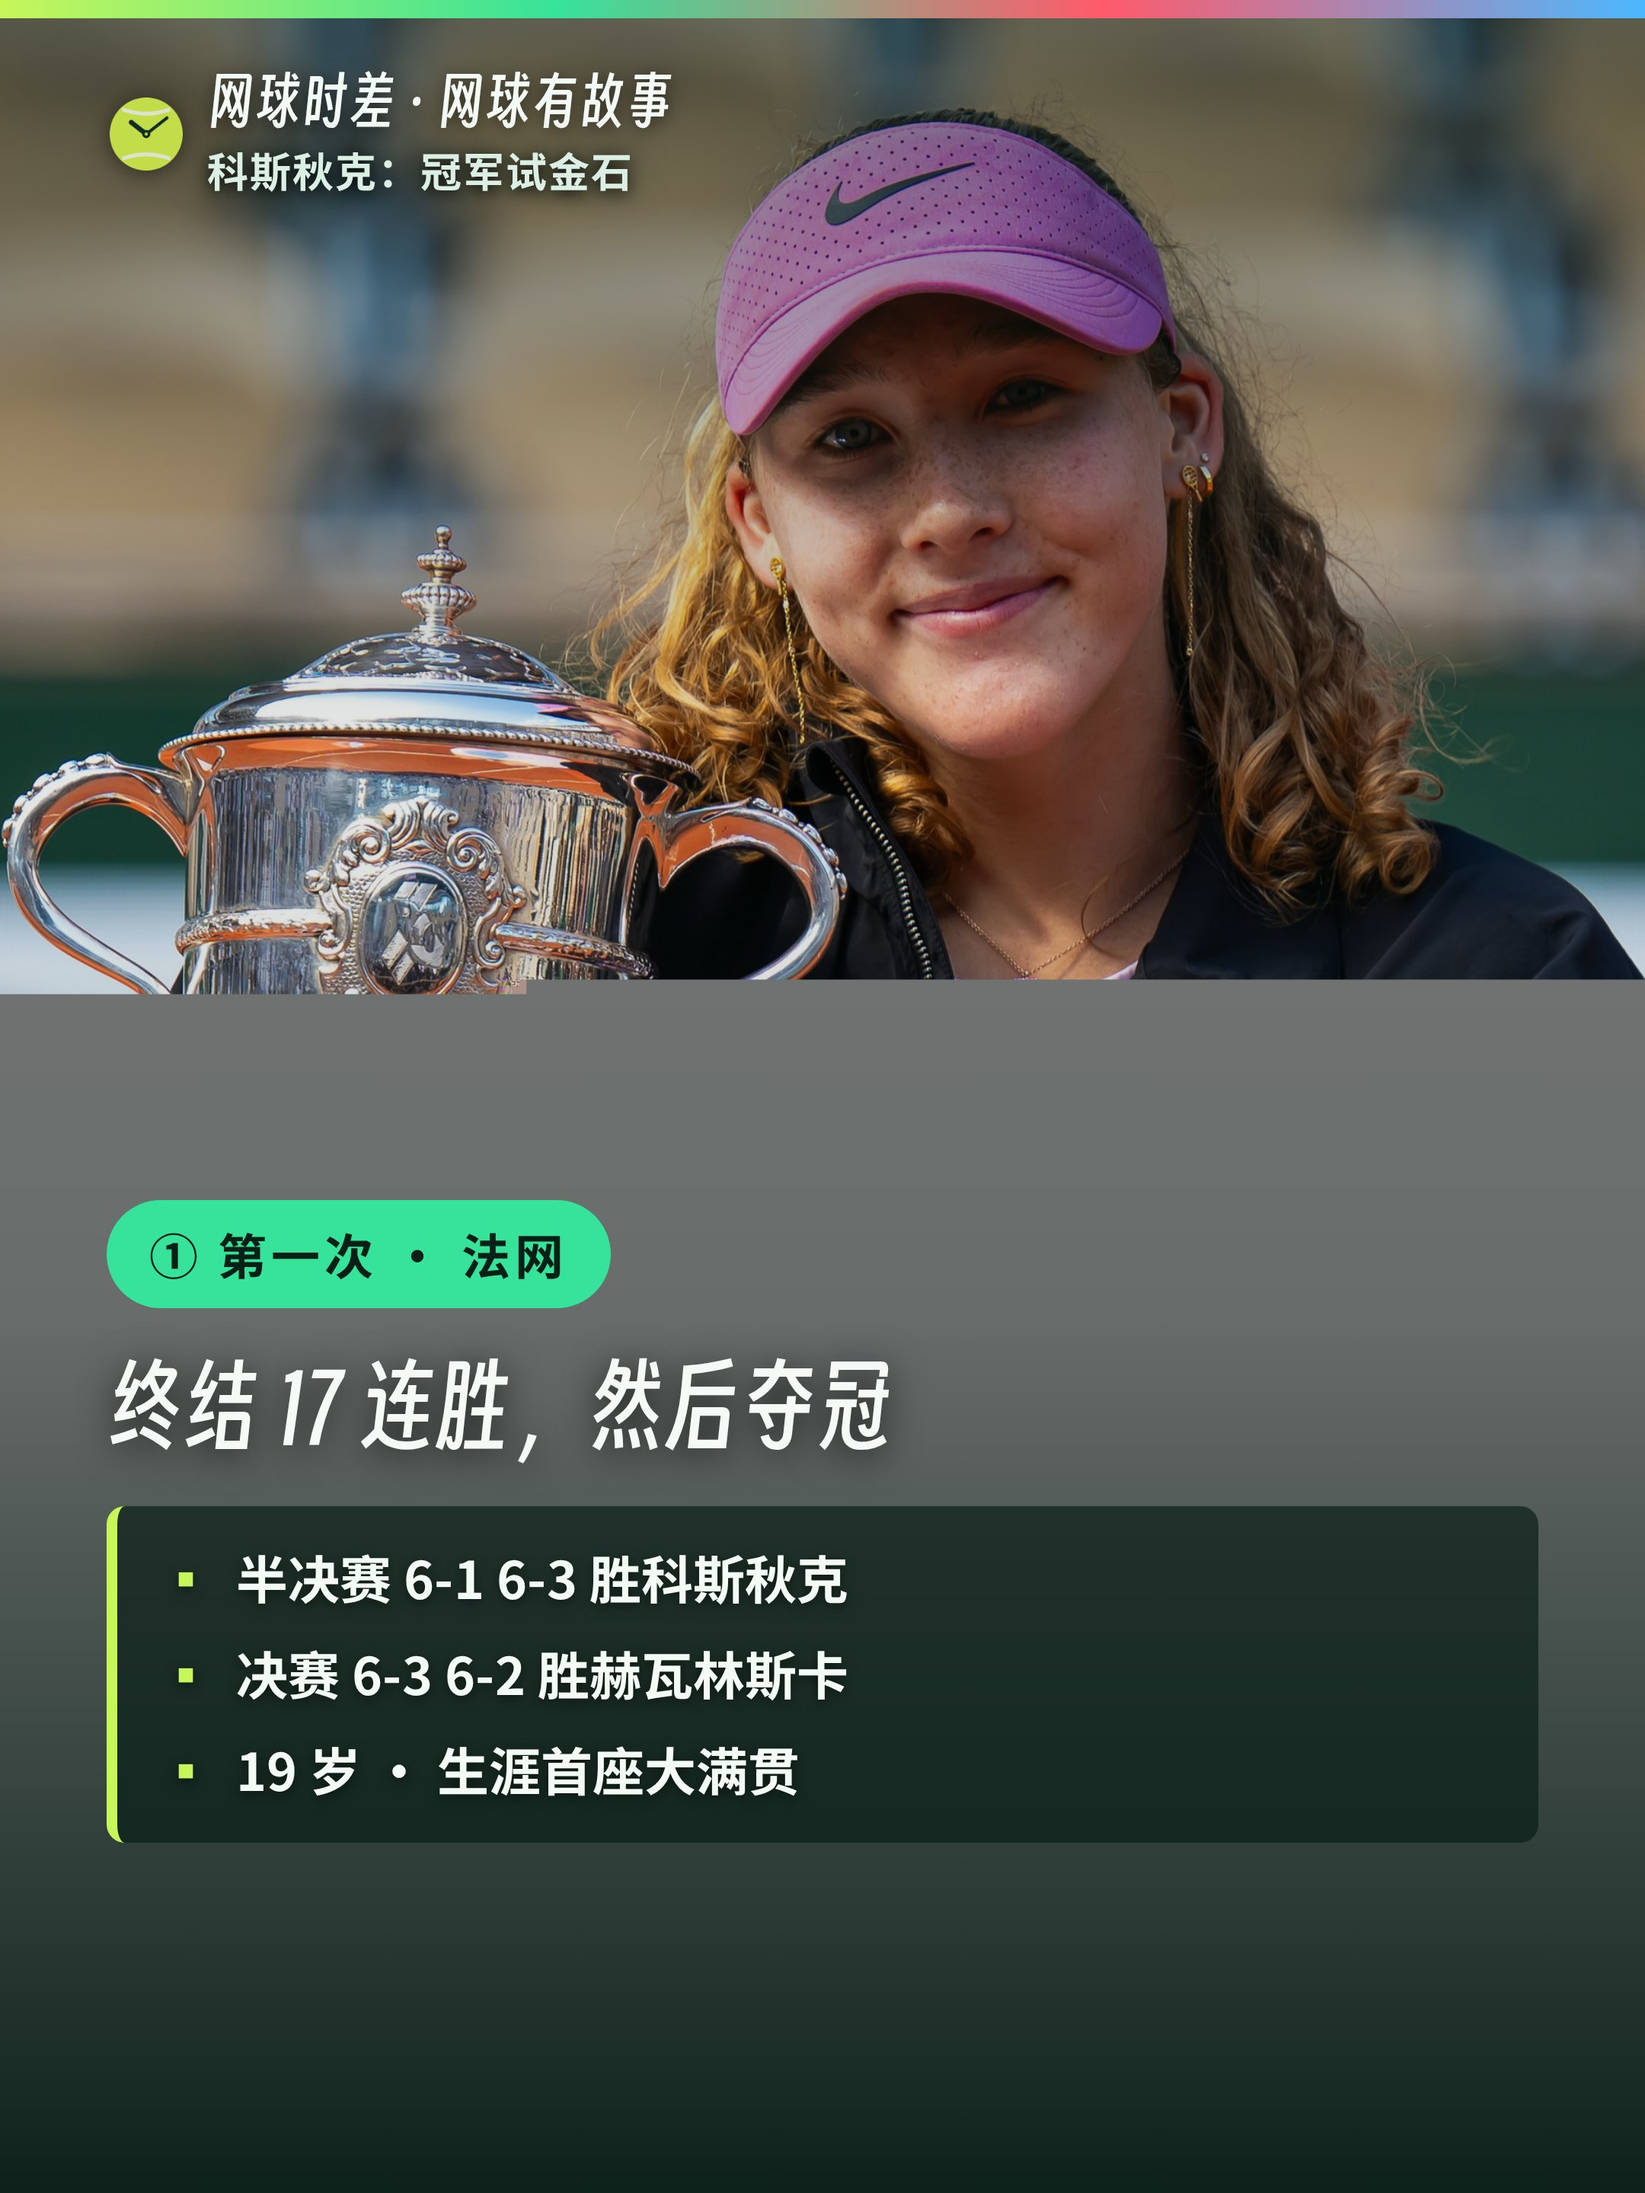
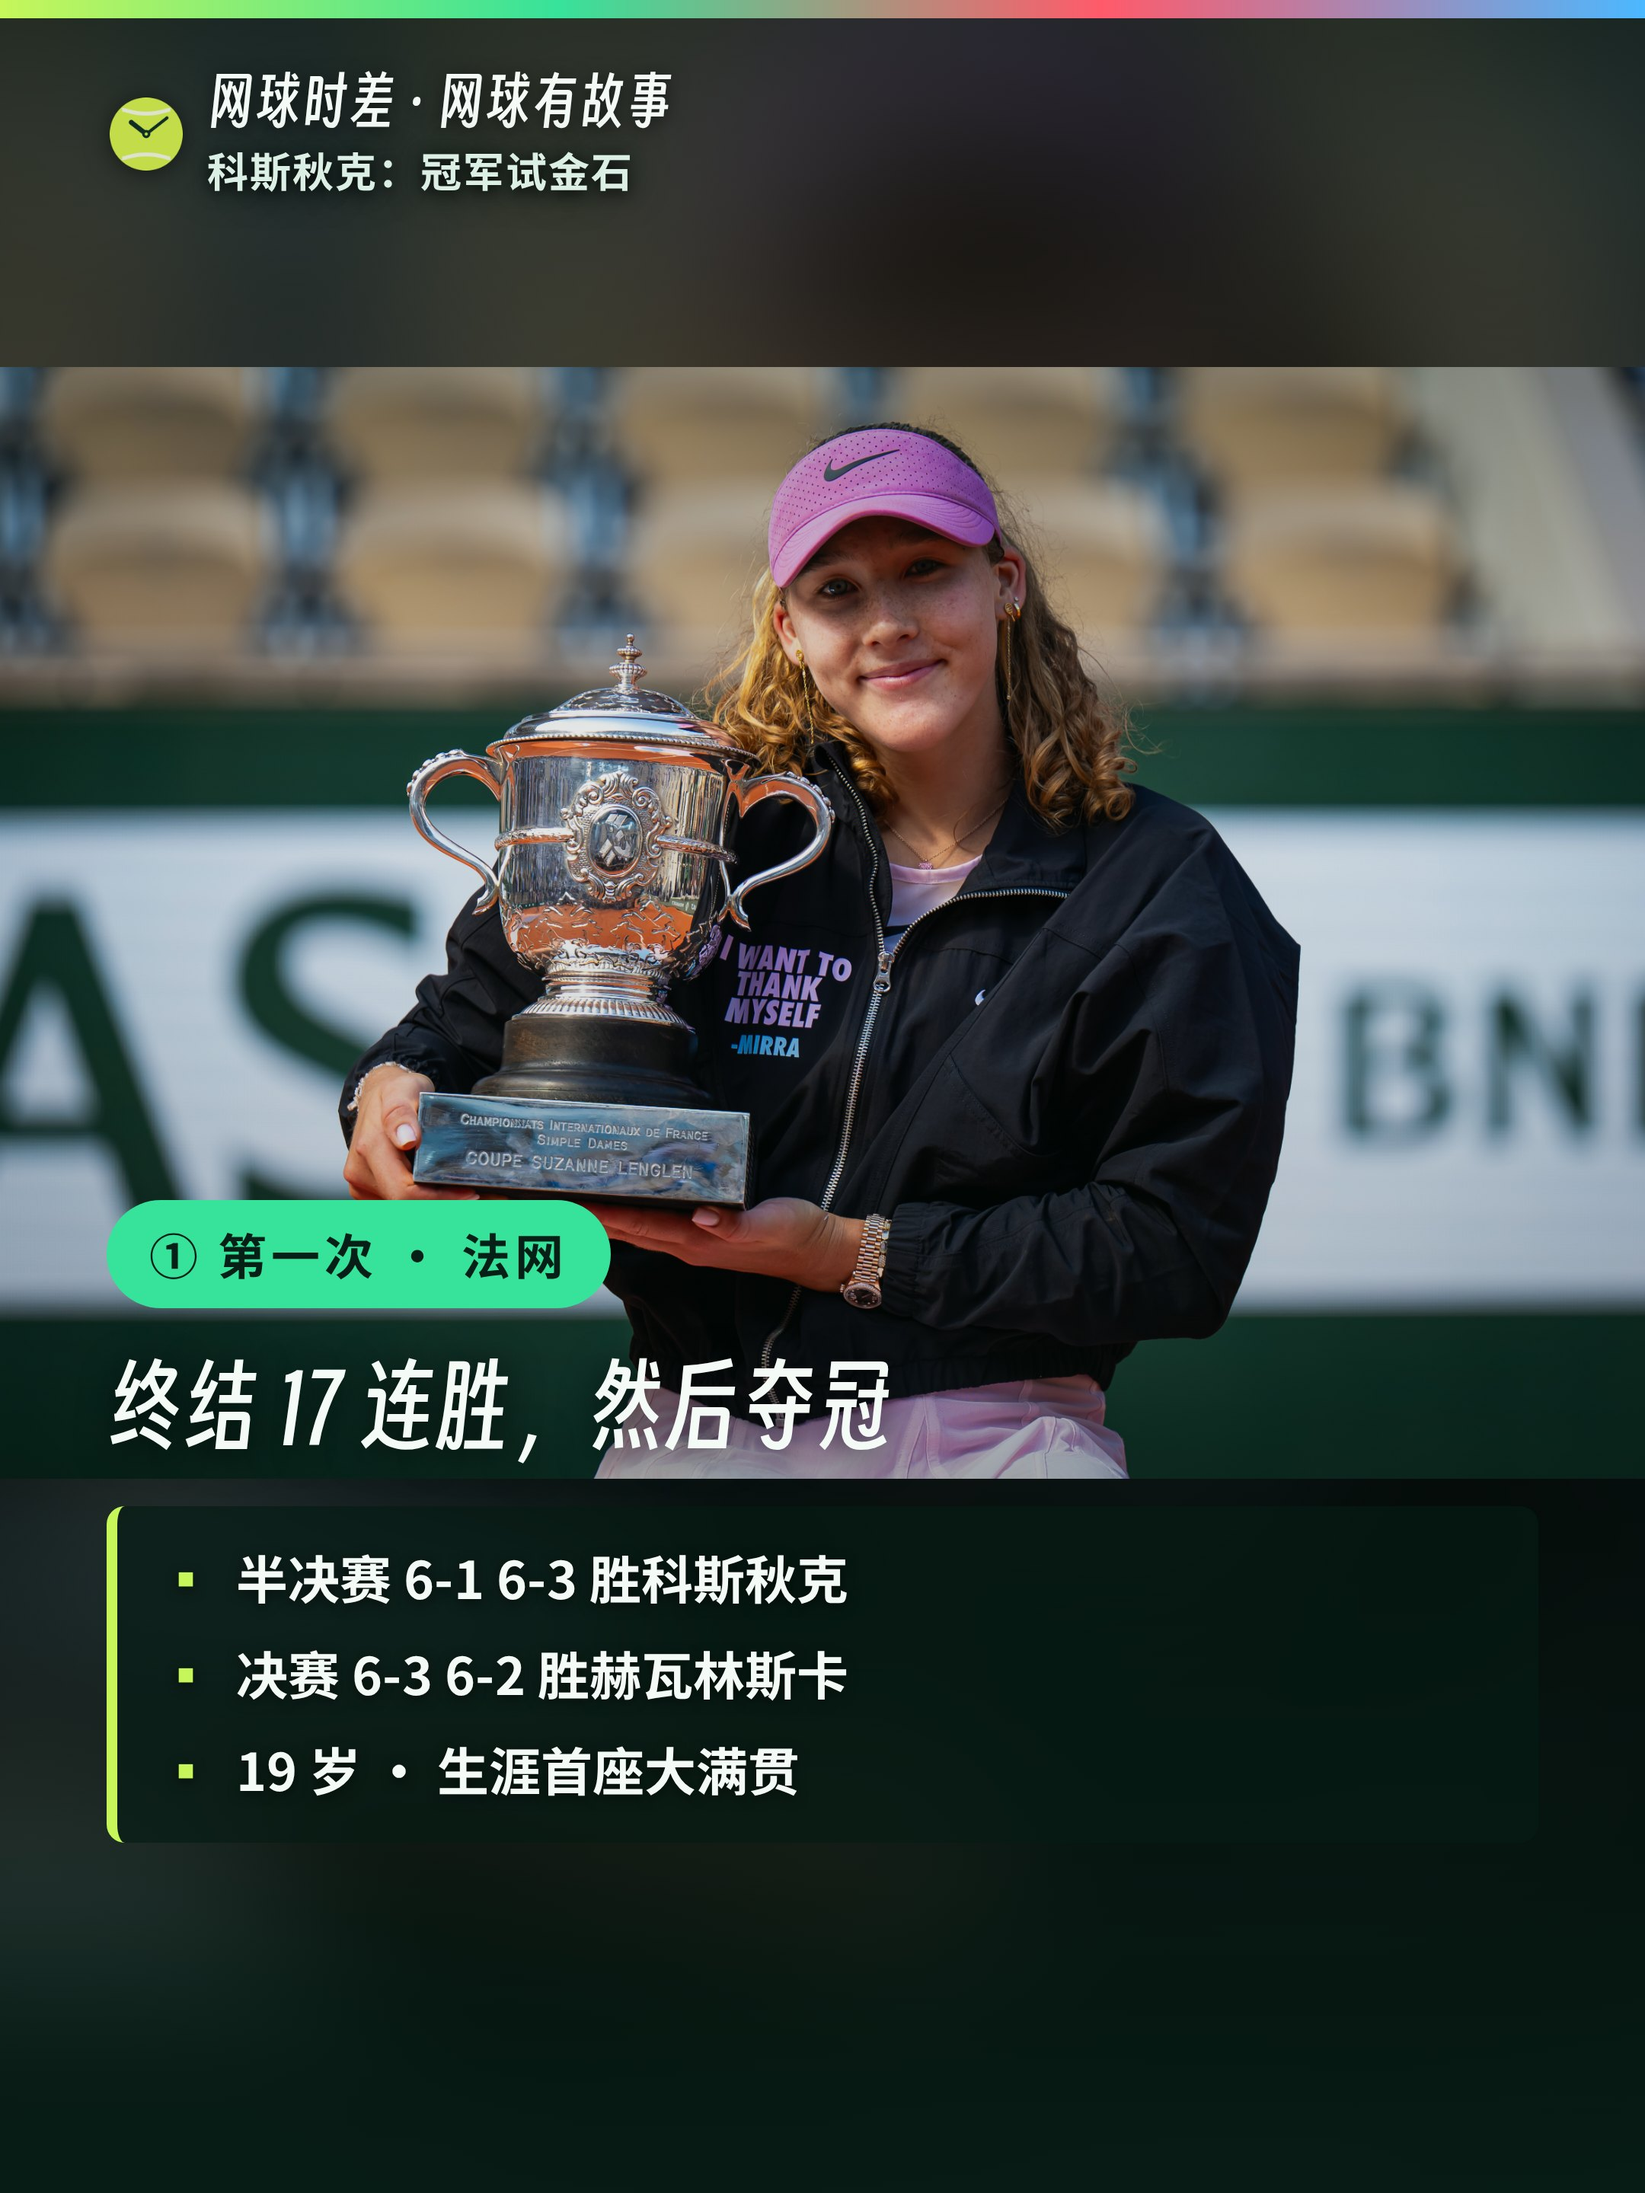
fix: restore complete Andreeva trophy photo
Replace the incomplete gray-padded crop with the full WTA official image, render it with contain, and block large flat placeholder bands before future explainer renders.

diff --git a/src/tennislive/video/explainer.py b/src/tennislive/video/explainer.py
@@ -7812,6 +7812,52 @@ def _data_uri(path: Path) -> str:
     return f"data:{mime};base64," + base64.b64encode(path.read_bytes()).decode()
 
 
+def _assert_photo_integrity(path: Path) -> None:
+    """Reject truncated photos and large flat placeholder bands before render.
+
+    ``Image.complete`` in Chromium only proves that the JPEG decoder reached the
+    end of *the file*.  It cannot catch a bad preprocessing export whose top is
+    a real photo and whose lower half has already been replaced by a grey canvas.
+    That exact failure reached the Andreeva trophy card once: every browser and
+    test considered the JPEG valid, but to a viewer it plainly looked half
+    loaded.
+
+    A real photograph can contain sky, court or a studio wall; JPEG texture and
+    lighting still leave measurable variation.  A generated placeholder band
+    is different: the outer 40% is virtually one RGB value.  Sampling a small
+    thumbnail makes this gate cheap enough to run before every explainer render.
+    """
+    from PIL import Image as _Image
+    from PIL import ImageStat as _ImageStat
+
+    try:
+        with _Image.open(path) as probe:
+            probe.verify()
+        with _Image.open(path) as source:
+            source.load()
+            sample = source.convert("RGB")
+            sample.thumbnail((160, 160))
+    except Exception as exc:  # noqa: BLE001
+        raise ExplainerVideoError(f"图片无法完整解码：{path}") from exc
+
+    width, height = sample.size
+    if width < 32 or height < 32:
+        raise ExplainerVideoError(f"图片尺寸异常小：{path}（{width}×{height}）")
+
+    band_h = max(8, int(height * 0.40))
+    bands = {
+        "顶部": sample.crop((0, 0, width, band_h)),
+        "底部": sample.crop((0, height - band_h, width, height)),
+    }
+    for edge, band in bands.items():
+        variation = max(_ImageStat.Stat(band).stddev)
+        if variation < 1.5:
+            raise ExplainerVideoError(
+                f"图片{edge} 40% 几乎是整块纯色，像加载/裁切未完成：{path}。"
+                "请换回完整原图；不要用纯灰、纯黑或纯白画布补齐照片。"
+            )
+
+
 def _slide_html(
     index: int, segment: ExplainerSegment, *, theme: str = "dark", topic: str = "",
     column: str = DEFAULT_COLUMN,
@@ -8156,6 +8202,15 @@ def render_explainer_slides(
     from ..render.webcards import _chromium_executable
 
     outdir.mkdir(parents=True, exist_ok=True)
+    checked: set[Path] = set()
+    for segment in segments:
+        if not segment.image:
+            continue
+        image_path = _REPO / segment.image
+        if image_path not in checked:
+            _assert_photo_integrity(image_path)
+            checked.add(image_path)
+
     paths: list[Path] = []
     with sync_playwright() as p:
         try:
